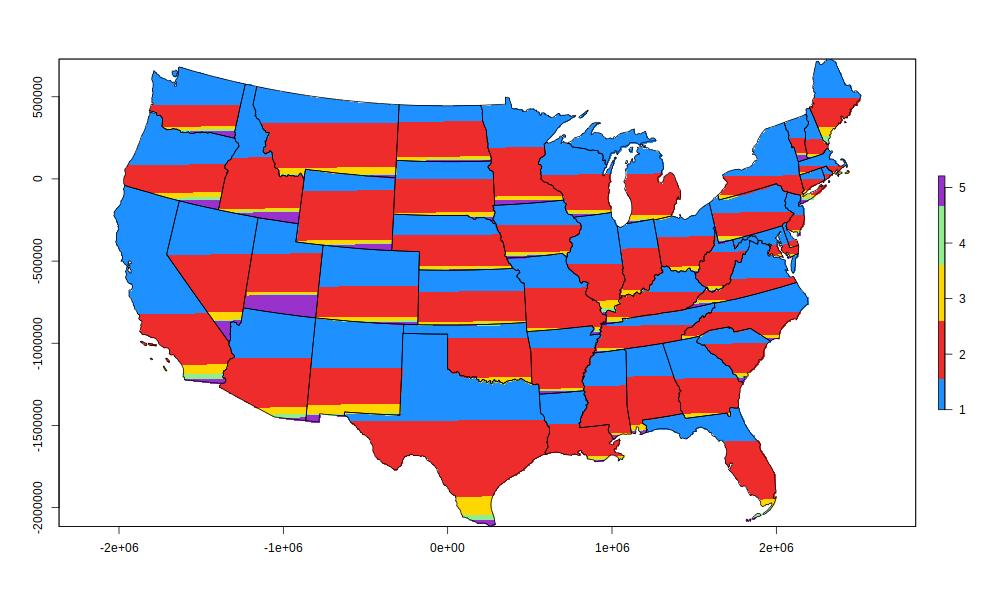
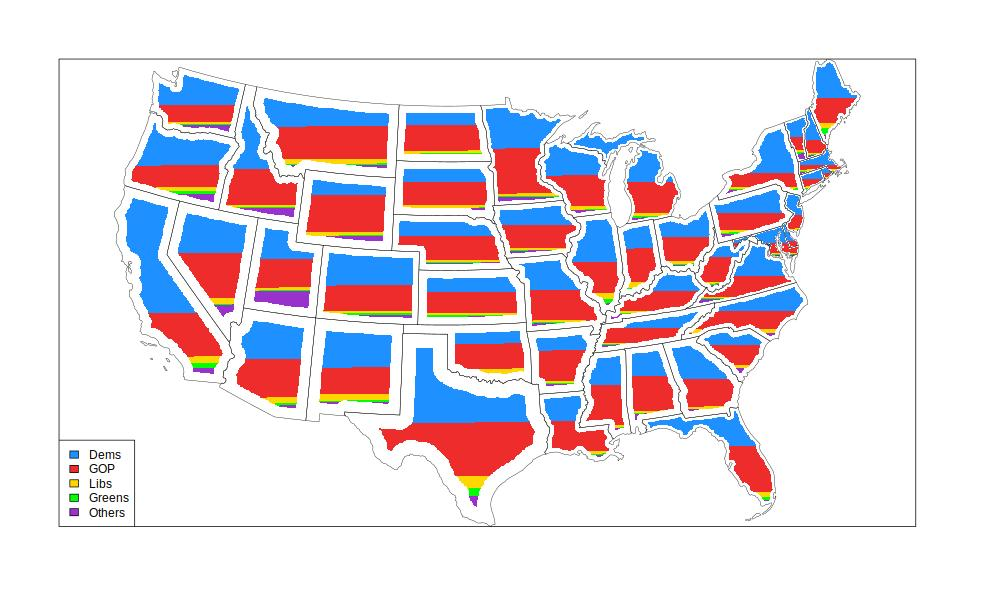
Update with buffer root finding and better plotting.

diff --git a/README.md b/README.md
@@ -1,8 +1,10 @@
 This is an R approach for the symbology found in here -> [https://doi.org/10.6084/m9.figshare.4033671.v1](https://doi.org/10.6084/m9.figshare.4033671.v1)
 
-This uses the 2016 US elections wiki site and census state boundary pulled on the fly, so the script will break if the urls change.
+This uses the 2016 US elections wiki site, census state boundaries, and turnout data. 
 
-Plotting is minimal, this is just a proof of concept.
+See `xGetBaseData.R` for data processing steps.
+
+See `rasterFill.R` for the visualization and export.
 
 Enjoy!
 
